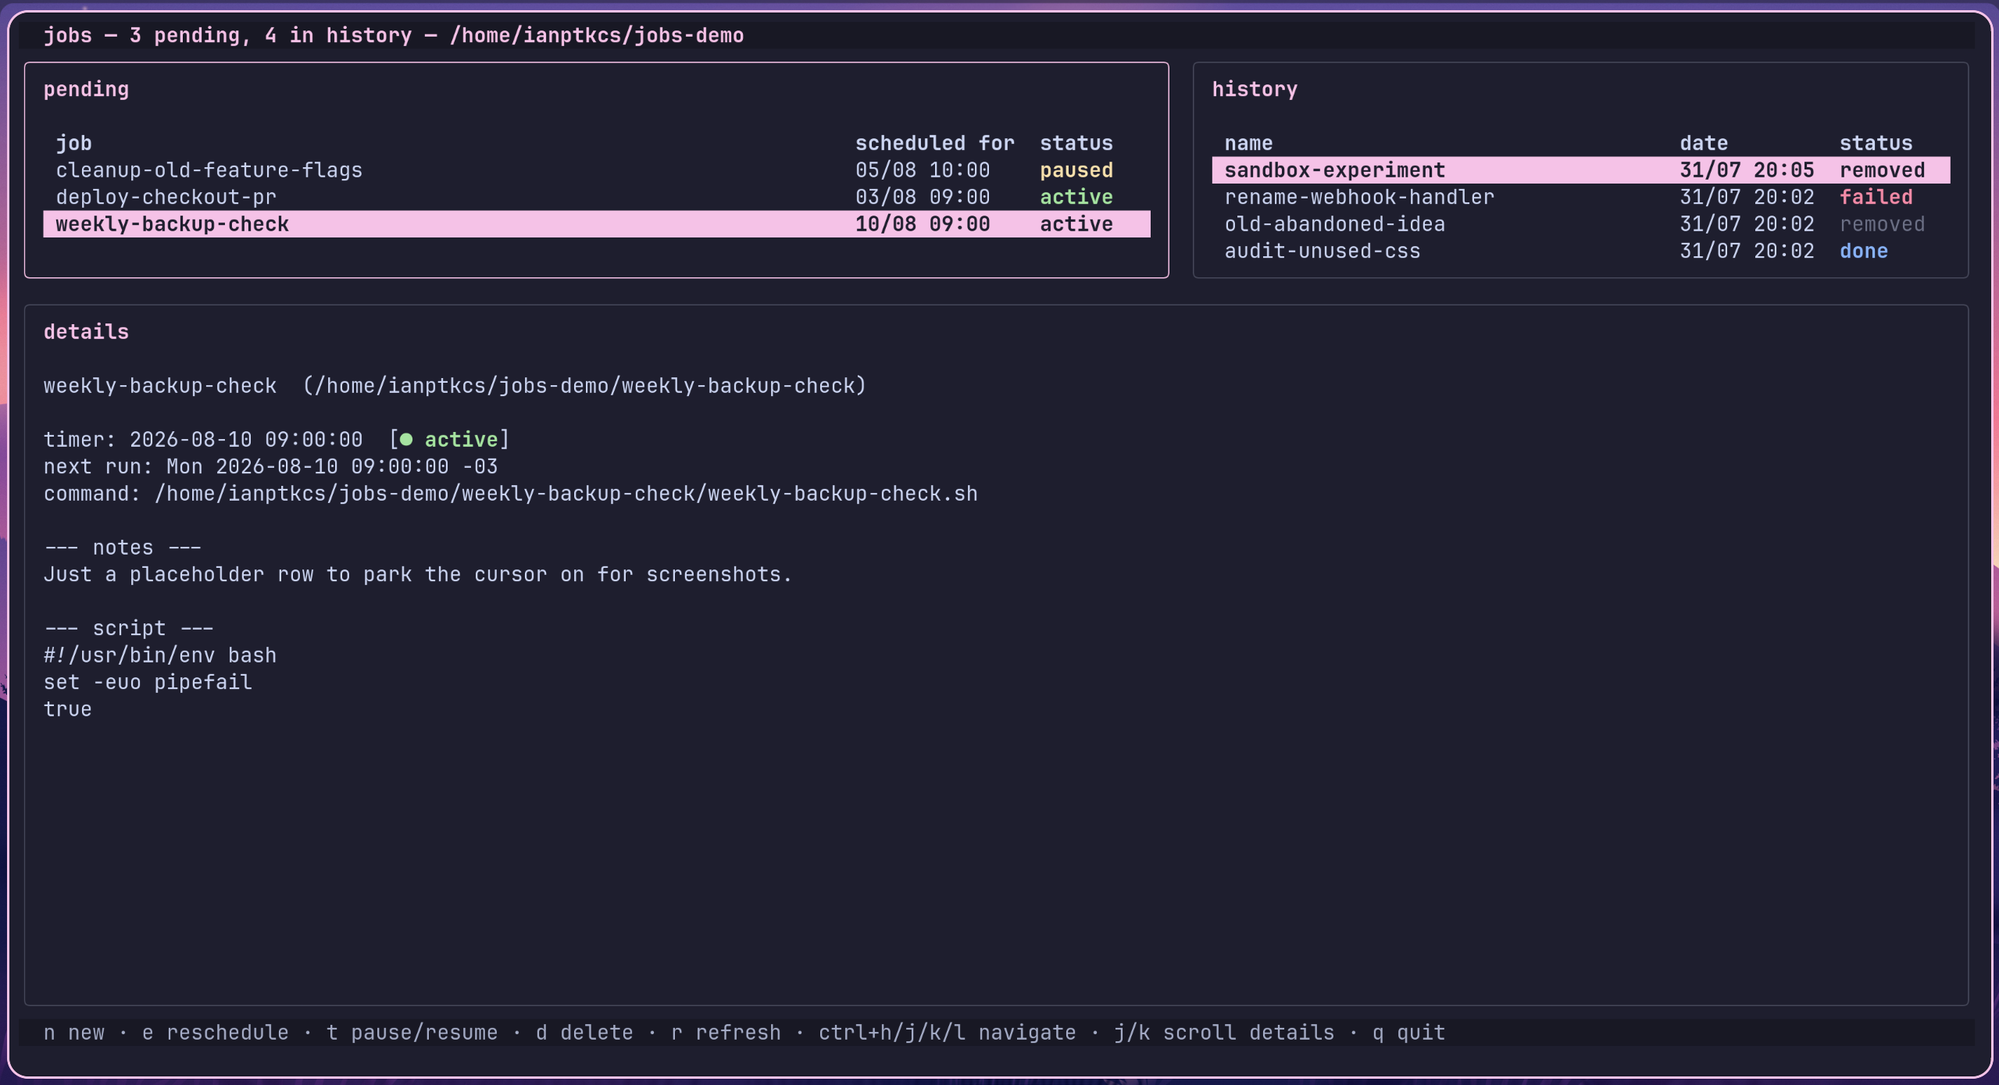
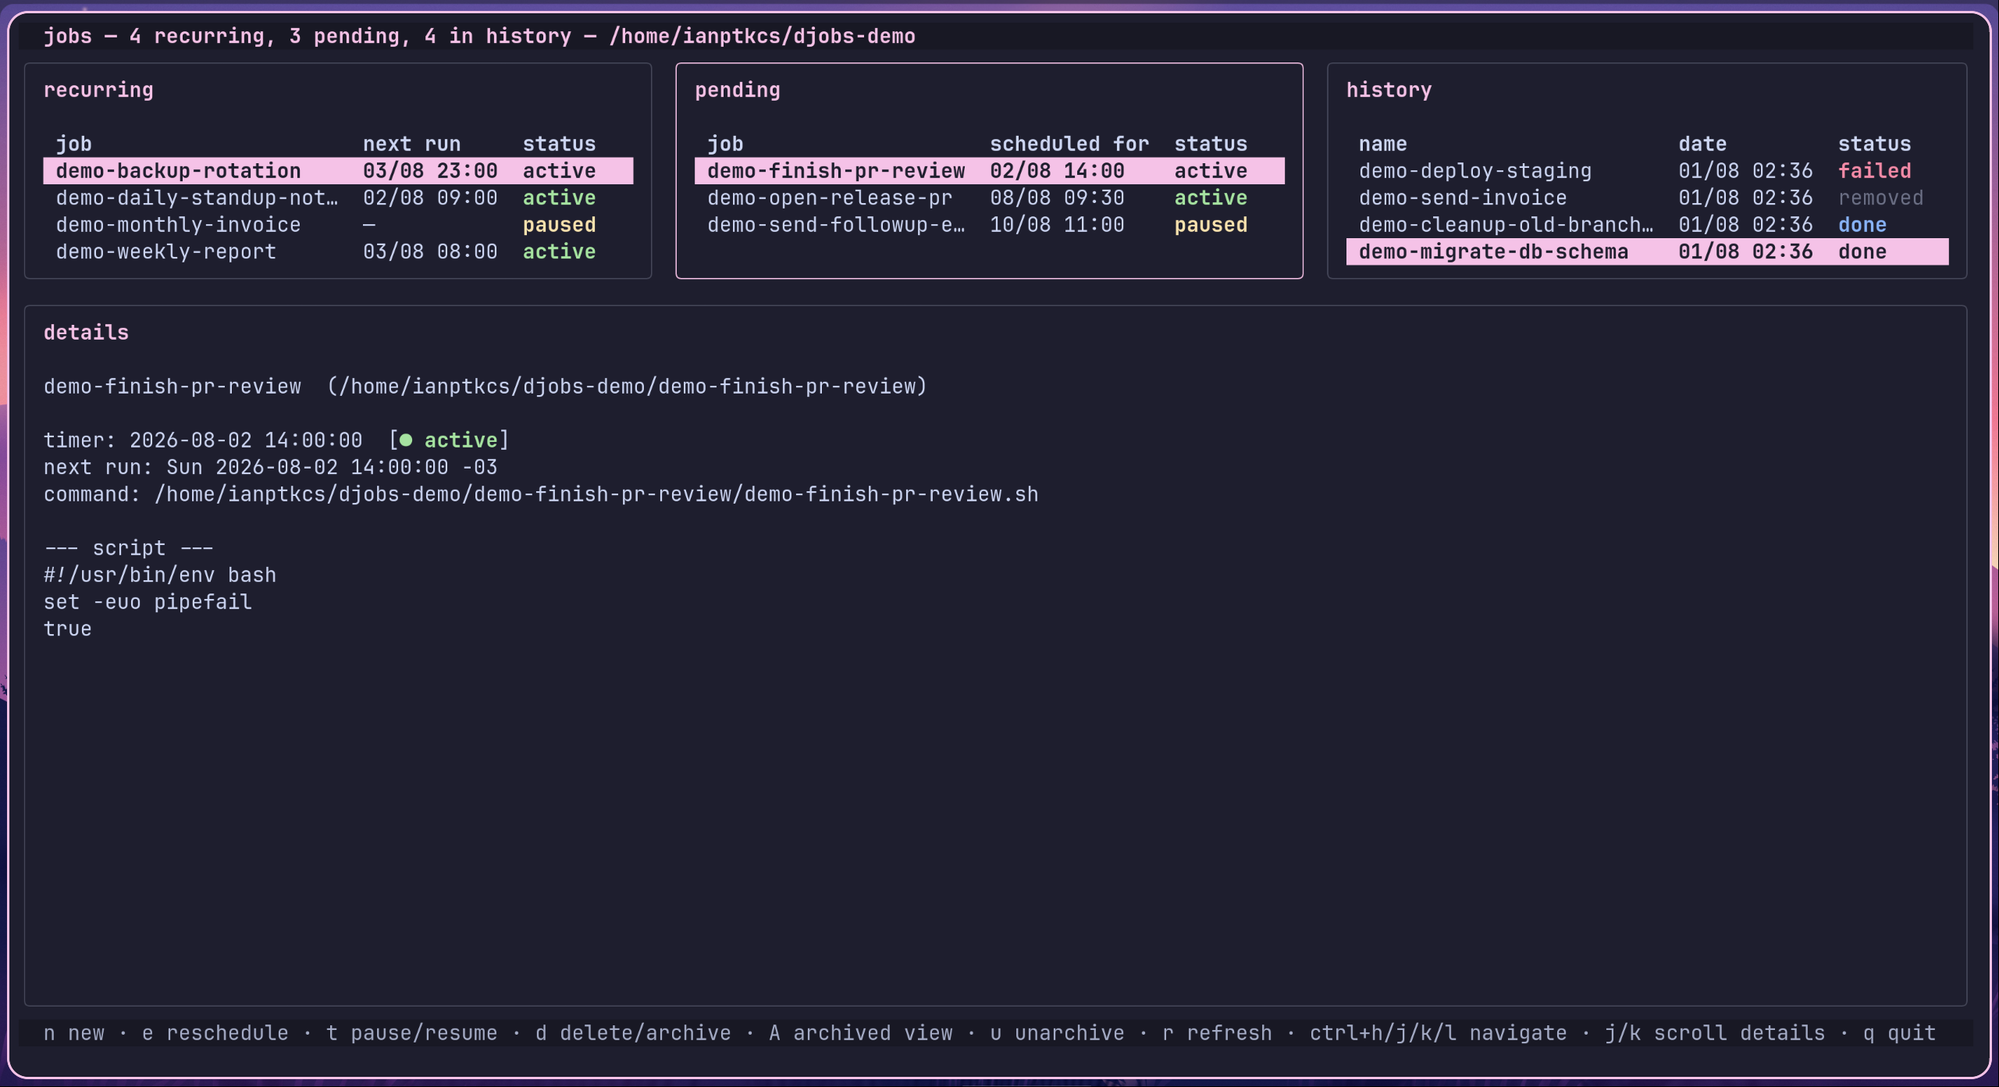
docs: refresh main screenshot, add archived view screenshot
The old screenshot predated the recurring-jobs panel and archiving
feature. Adds a second screenshot showing the archived view (A key).

diff --git a/README.md b/README.md
@@ -42,6 +42,8 @@ deleting a job for good — `d` offers Archive as well as Delete forever, and
 an archived job's directory just moves under `~/jobs/.archive/<name>/`
 (invisible to the normal panels) until `u` unarchives it back.
 
+![archived view](screenshot-archived.png)
+
 **details** shows everything djobs knows about the selected job: its
 directory, the timer's schedule/status and next elapse time (recurring and
 pending jobs only), the `<name>*body*.txt` notes and the job script's
